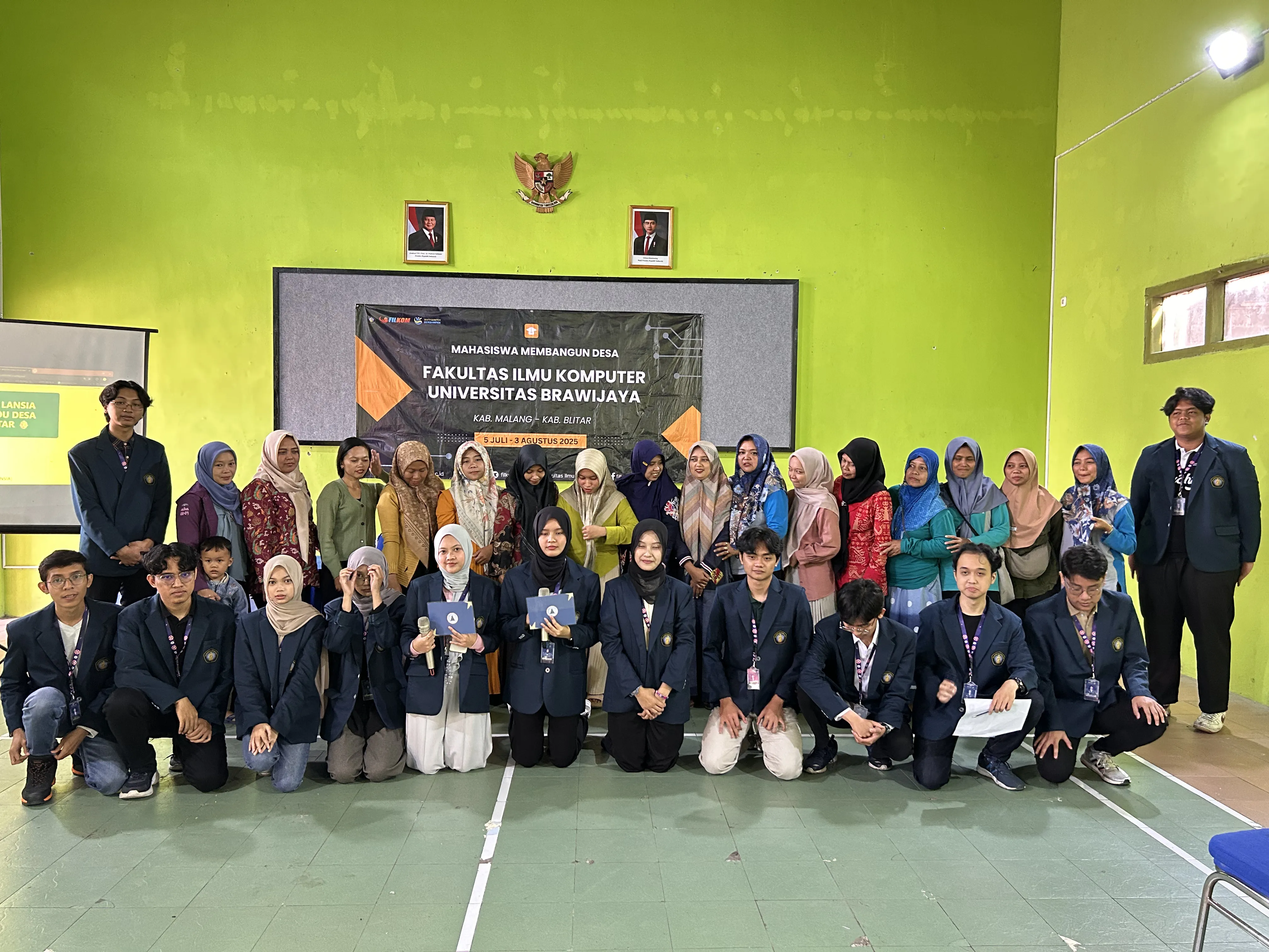
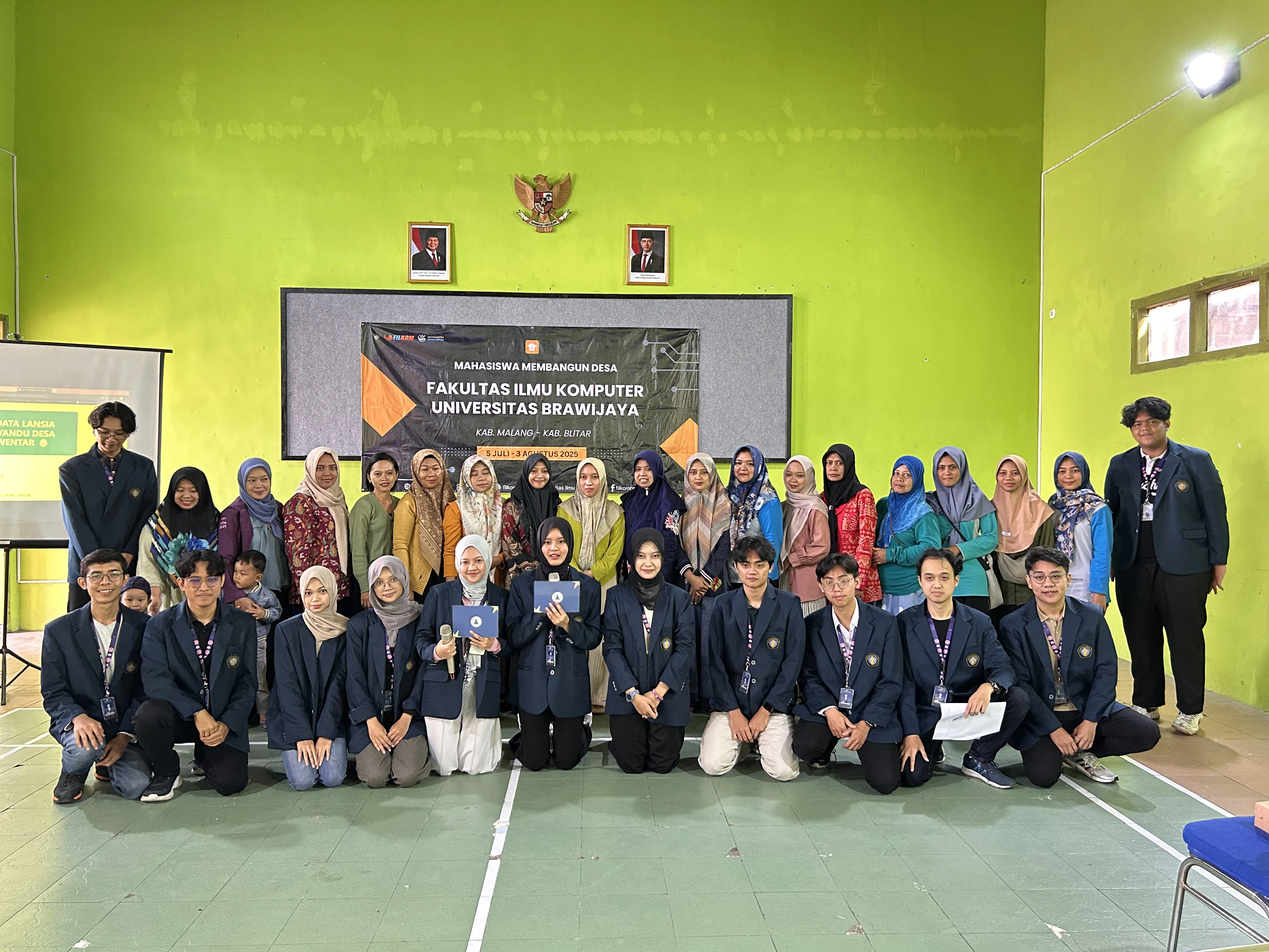
feat: append new visual evidence to BCA Company Visit and Public Speaking galleries

diff --git a/index.html b/index.html
@@ -745,7 +745,7 @@
                             
                             <div class="flex flex-col md:flex-row md:justify-between md:items-start mb-4 relative z-10">
                                 <div>
-                                    <h4 class="text-lg md:text-2xl font-bold text-primary leading-tight md:leading-normal mb-1 md:mb-0">Campus Ambassador</h4>
+                                    <h4 class="text-lg md:text-2xl font-bold text-primary leading-tight md:leading-normal mb-1 md:mb-0">PopSurvey Campus Ambassador</h4>
                                     <p class="text-base md:text-lg font-semibold text-accent">PopSurvey by Populix (PT Populix Informasi Teknologi)</p>
                                 </div>
                                 <span class="text-sm font-medium text-slate-400 mt-2 md:mt-0 bg-white px-3 py-1 rounded-full w-fit shadow-sm border border-slate-100 flex-shrink-0">Jul 2026 – Present</span>
@@ -1148,7 +1148,7 @@
                             <img src="assets/beyond-speaker-1.webp" alt="Public Speaking" loading="lazy" class="w-full h-full object-cover group-hover:scale-110 transition-transform duration-700">
                             <div class="absolute inset-0 bg-primary/10 group-hover:bg-transparent transition-colors duration-300 flex items-center justify-center">
                                 <span class="bg-primary/80 backdrop-blur text-white px-4 py-2 rounded-full font-bold text-sm opacity-0 group-hover:opacity-100 transition-opacity duration-300 flex items-center gap-2">
-                                    <svg class="w-4 h-4" fill="none" stroke="currentColor" viewBox="0 0 24 24"><path stroke-linecap="round" stroke-linejoin="round" stroke-width="2" d="M4 16l4.586-4.586a2 2 0 012.828 0L16 16m-2-2l1.586-1.586a2 2 0 012.828 0L20 14m-6-6h.01M6 20h12a2 2 0 002-2V6a2 2 0 00-2-2H6a2 2 0 00-2 2v12a2 2 0 002 2z"></path></svg> View Gallery (8 Photos)
+                                    <svg class="w-4 h-4" fill="none" stroke="currentColor" viewBox="0 0 24 24"><path stroke-linecap="round" stroke-linejoin="round" stroke-width="2" d="M4 16l4.586-4.586a2 2 0 012.828 0L16 16m-2-2l1.586-1.586a2 2 0 012.828 0L20 14m-6-6h.01M6 20h12a2 2 0 002-2V6a2 2 0 00-2-2H6a2 2 0 00-2 2v12a2 2 0 002 2z"></path></svg> View Gallery (10 Photos)
                                 </span>
                             </div>
                         </div>
@@ -1165,7 +1165,7 @@
                             <img src="assets/beyond-speakeraiesec-1.webp" alt="AIESEC Speaker" loading="lazy" class="w-full h-full object-cover group-hover:scale-110 transition-transform duration-700">
                             <div class="absolute inset-0 bg-primary/10 group-hover:bg-transparent transition-colors duration-300 flex items-center justify-center">
                                 <span class="bg-primary/80 backdrop-blur text-white px-4 py-2 rounded-full font-bold text-sm opacity-0 group-hover:opacity-100 transition-opacity duration-300 flex items-center gap-2">
-                                    <svg class="w-4 h-4" fill="none" stroke="currentColor" viewBox="0 0 24 24"><path stroke-linecap="round" stroke-linejoin="round" stroke-width="2" d="M4 16l4.586-4.586a2 2 0 012.828 0L16 16m-2-2l1.586-1.586a2 2 0 012.828 0L20 14m-6-6h.01M6 20h12a2 2 0 002-2V6a2 2 0 00-2-2H6a2 2 0 00-2 2v12a2 2 0 002 2z"></path></svg> View Gallery (5 Photos)
+                                    <svg class="w-4 h-4" fill="none" stroke="currentColor" viewBox="0 0 24 24"><path stroke-linecap="round" stroke-linejoin="round" stroke-width="2" d="M4 16l4.586-4.586a2 2 0 012.828 0L16 16m-2-2l1.586-1.586a2 2 0 012.828 0L20 14m-6-6h.01M6 20h12a2 2 0 002-2V6a2 2 0 00-2-2H6a2 2 0 00-2 2v12a2 2 0 002 2z"></path></svg> View Gallery (6 Photos)
                                 </span>
                             </div>
                         </div>
@@ -1948,7 +1948,7 @@
                     "<span class='font-bold text-slate-700'>Professional Networking:</span> Building connections with BCA management and fellow high-achieving awardees."
                 ], 
                 achievements: [],
-                images: ["assets/beyond-comvisbca-1.webp", "assets/beyond-comvisbca-2.webp", "assets/beyond-comvisbca-3.webp", "assets/beyond-comvisbca-4.webp", "assets/beyond-comvisbca-5.webp"]
+                images: ["assets/beyond-comvisbca-1.webp", "assets/beyond-comvisbca-2.webp", "assets/beyond-comvisbca-3.webp", "assets/beyond-comvisbca-4.webp", "assets/beyond-comvisbca-5.webp", "assets/beyond-comvisbca-6.webp"]
             },
             'gallery_mmd': {
                 title: "Mahasiswa Membangun Desa (MMD) — Desa Sawentar",
@@ -1987,7 +1987,7 @@
                     "<span class='font-bold text-slate-700'>Stage Presence:</span> Maintaining confidence, clarity, and authority while commanding a room."
                 ], 
                 achievements: [],
-                images: ["assets/beyond-speaker-1.webp", "assets/beyond-speaker-2.webp", "assets/beyond-speaker-3.webp", "assets/beyond-speaker-4.webp", "assets/beyond-speaker-5.webp", "assets/beyond-speaker-6.webp", "assets/beyond-speaker-7.webp", "assets/beyond-speaker-8.webp"]
+                images: ["assets/beyond-speaker-1.webp", "assets/beyond-speaker-2.webp", "assets/beyond-speaker-3.webp", "assets/beyond-speaker-4.webp", "assets/beyond-speaker-5.webp", "assets/beyond-speaker-6.webp", "assets/beyond-speaker-7.webp", "assets/beyond-speaker-8.webp", "assets/beyond-speaker-9.webp", "assets/beyond-speaker-10.webp"]
             },
             'gallery_transform': {
                 title: "BCA Transformational Program",
